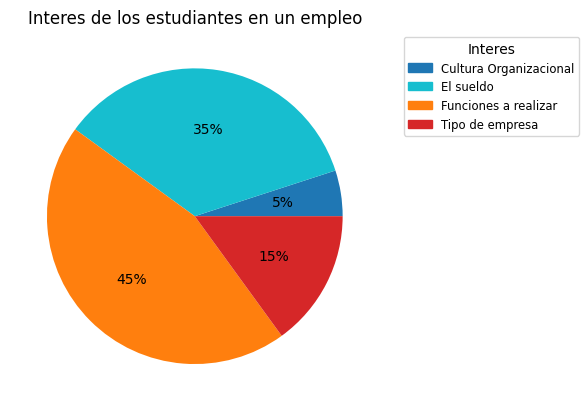
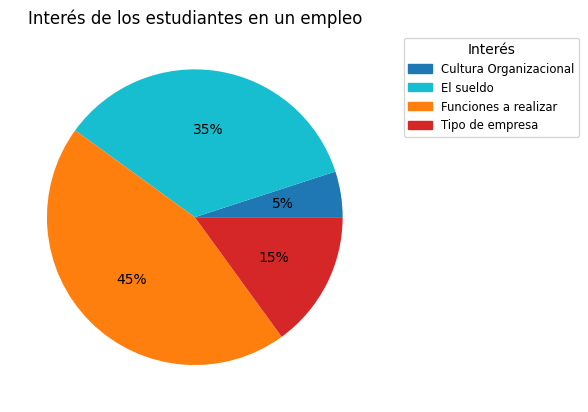
Interés

diff --git a/make_graphics.py b/make_graphics.py
@@ -33,7 +33,7 @@ respeto_a_direcencias_es = []
 fre_actualizacion_tec_conocidas_es = []
 fre_aprendizaje_nueva_tec_es = []
 
-# Interes en el sector banacario
+# Interés en el sector banacario
 interes_estudiates = []
 interes_para_trabajar = []
 
@@ -140,7 +140,7 @@ for individuo in estudiantes:
     fre_actualizacion_tec_conocidas_es.append(individuo["De las tecnologías que usted domina ¿qué tan frecuente actualiza su conocimiento sobre estas?"])
     fre_aprendizaje_nueva_tec_es.append(individuo["¿Qué tan frecuente aprende nuevas tecnologías?"])
 
-    #Interes en el sector bancario
+    #Interés en el sector bancario
     interes_estudiates.append(individuo["¿Qué tanto le interesa trabajar en el sector bancario?"])
     interes_para_trabajar.append(individuo["Al momento de buscar empleo ¿qué le interesa más?"])
 
@@ -385,11 +385,11 @@ plt.savefig("./fig/aprendizaje_de_conocimientos_bc.png", dpi=None, facecolor='w'
 plt.clf()
 
 
-############ Interes de los estudiantes en el sector banacario ############
+############ Interés de los estudiantes en el sector banacario ############
 interes_estudiates = np.array(interes_estudiates)
 
 
-############ Interes de los estudiantes para trabajar en el sector banacario ############
+############ Interés de los estudiantes para trabajar en el sector banacario ############
 interes_para_trabajar = np.array(interes_para_trabajar)
 interes_set, fre_interes = np.unique(interes_para_trabajar, return_counts=True) 
 
@@ -398,7 +398,7 @@ fre_interes = (fre_interes / len(estudiantes)) * 100
 fig, ax = plt.subplots()
 ax.pie(fre_interes, colors=['tab:blue', 'tab:cyan', 'tab:orange', 'tab:red'], autopct='%.0f%%' )
 
-plt.title("Interes de los estudiantes en un empleo")
+plt.title("Interés de los estudiantes en un empleo")
 
 fontP = FontProperties()
 fontP.set_size('small')
@@ -407,7 +407,7 @@ cmap = dict(zip(interes_set, ['tab:blue', 'tab:cyan', 'tab:orange', 'tab:red']))
 
 patches = [Patch(color=v, label=k) for k, v in cmap.items()]
 
-plt.legend(labels=interes_set.tolist(), handles=patches, title='Interes', bbox_to_anchor=(1.05, 1), loc='upper left', prop=fontP)
+plt.legend(labels=interes_set.tolist(), handles=patches, title='Interés', bbox_to_anchor=(1.05, 1), loc='upper left', prop=fontP)
 
 plt.savefig("./fig/interes_estudiates_trabajo_banco.png", dpi=None, facecolor='w', edgecolor='w',
         orientation='portrait', format=None,
@@ -728,7 +728,7 @@ so_pro = (so_count / len(estudiantes)) * 100
 make_bar(
         data=so_set,
         por=so_pro,
-        title="Áreas de interes para los estudiantes",
+        title="Áreas de interés para los estudiantes",
         name="Áreas",
         file_name="./fig/areas_interes.png",
         drop_df=True,
